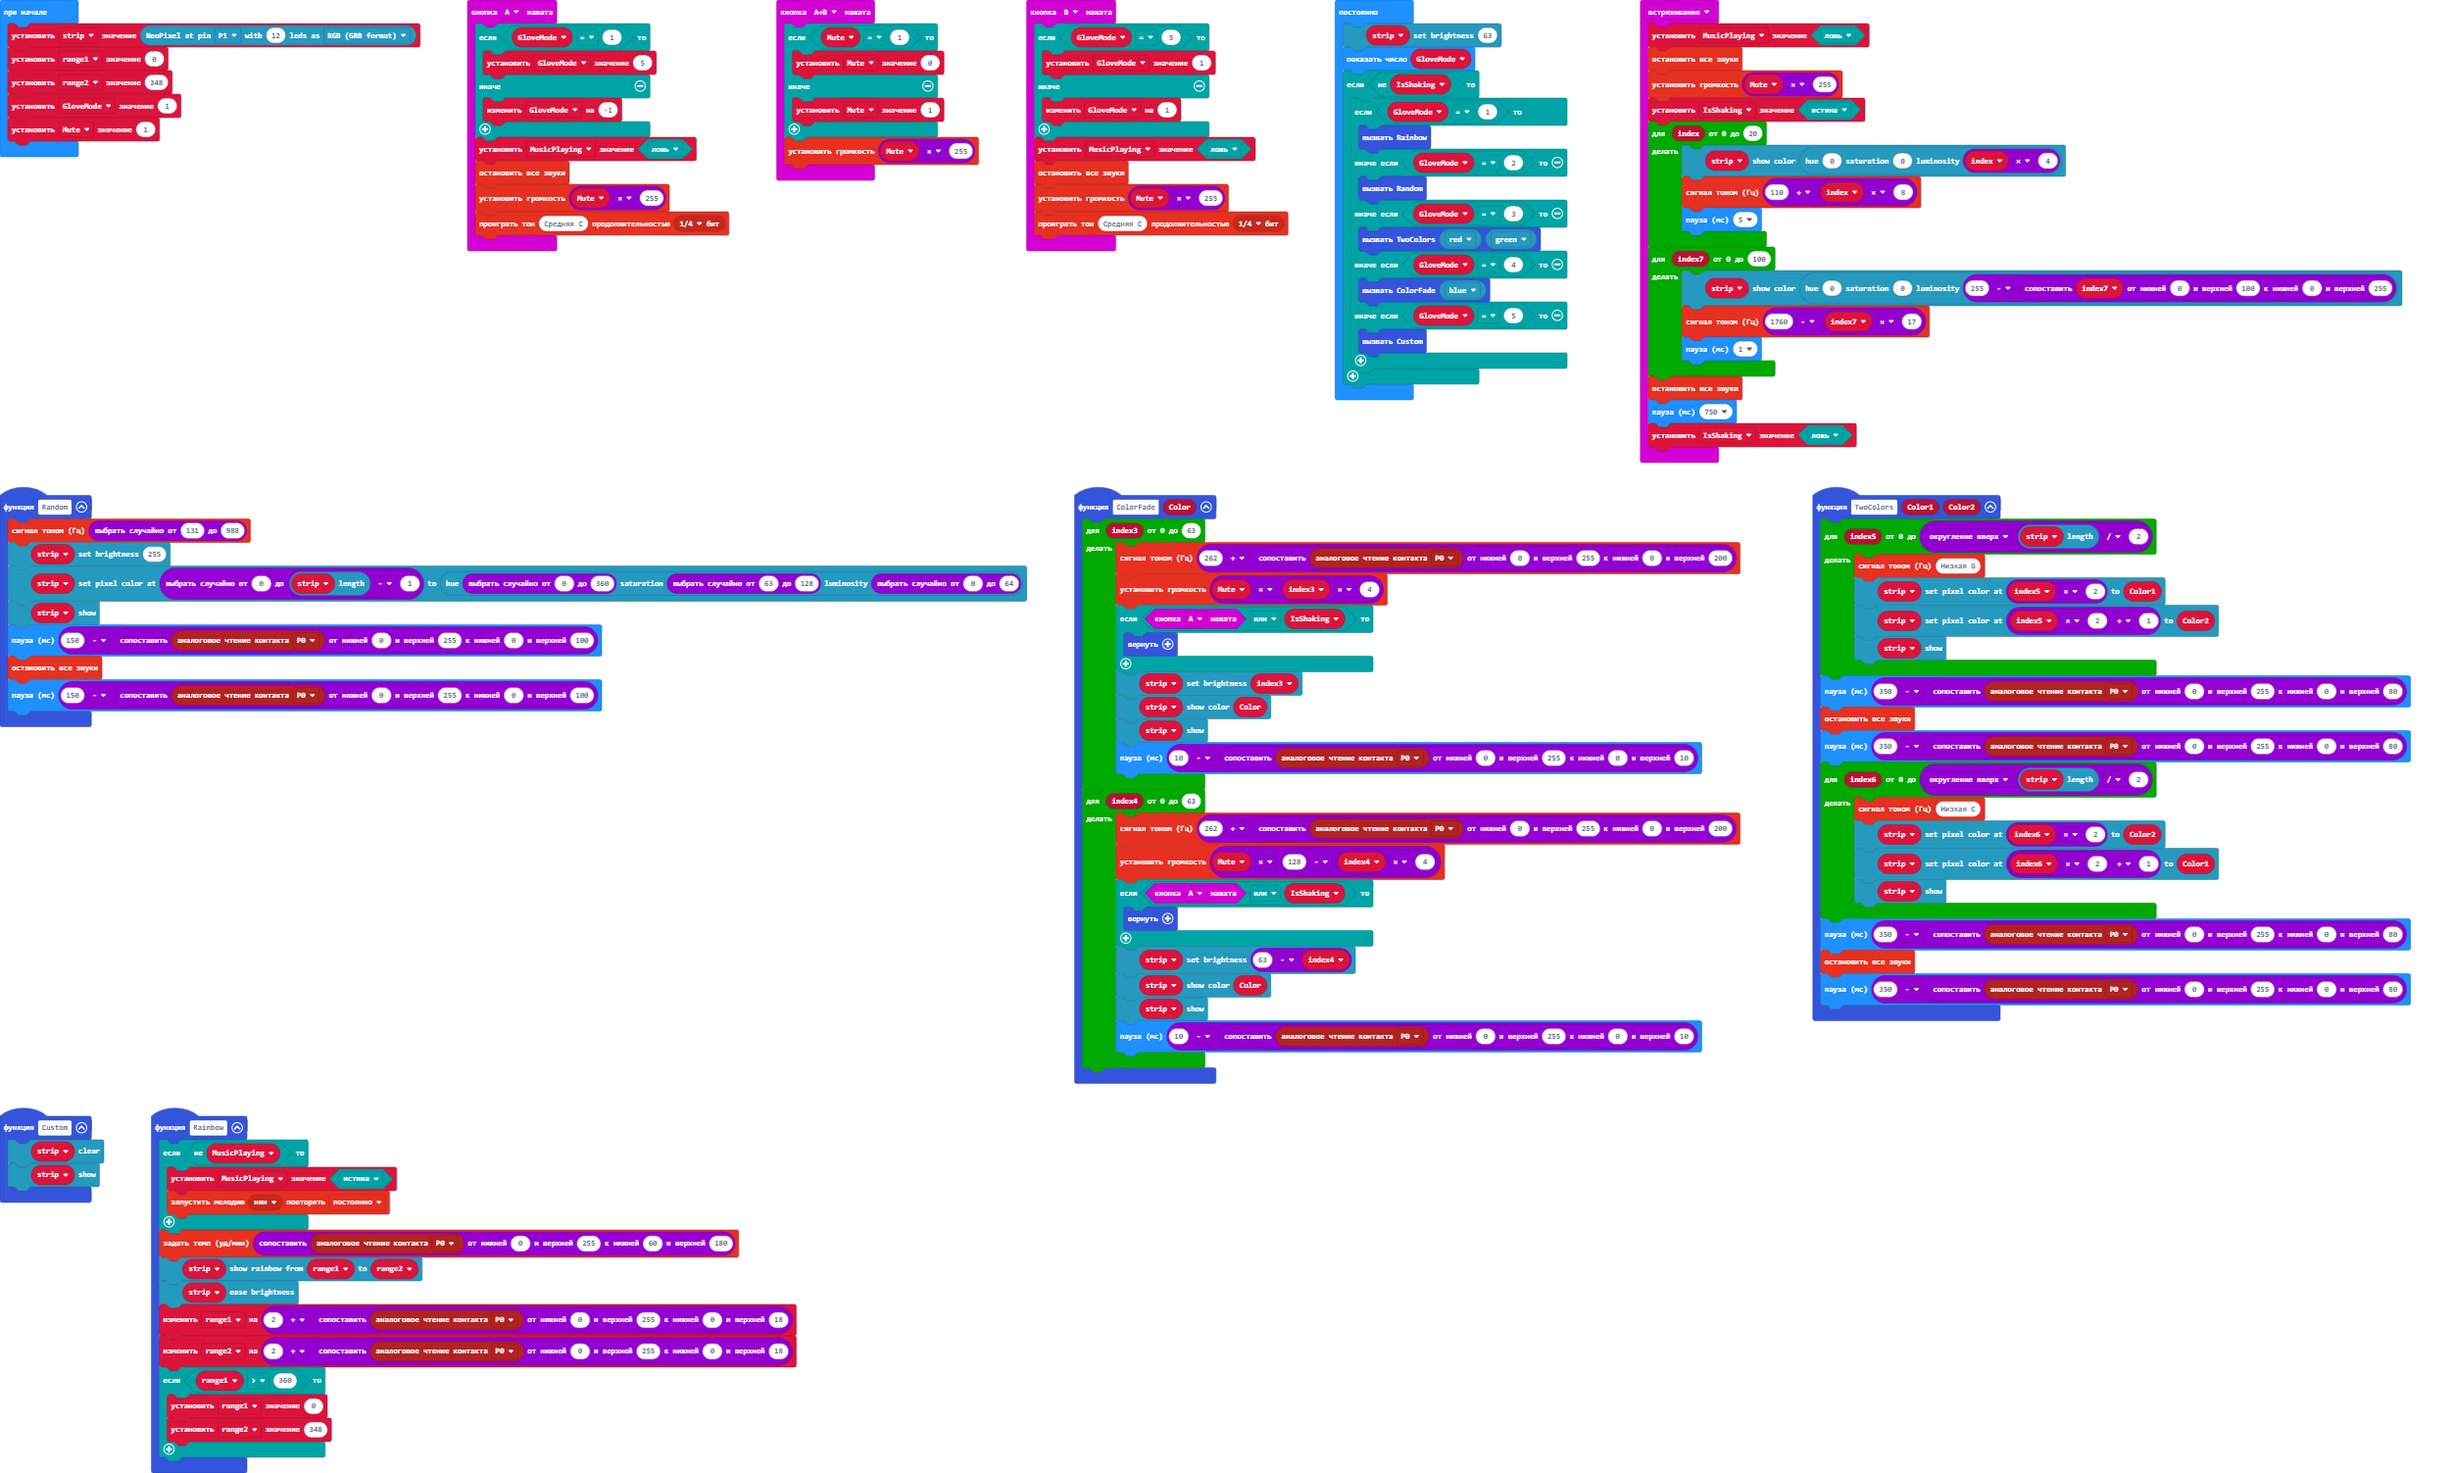
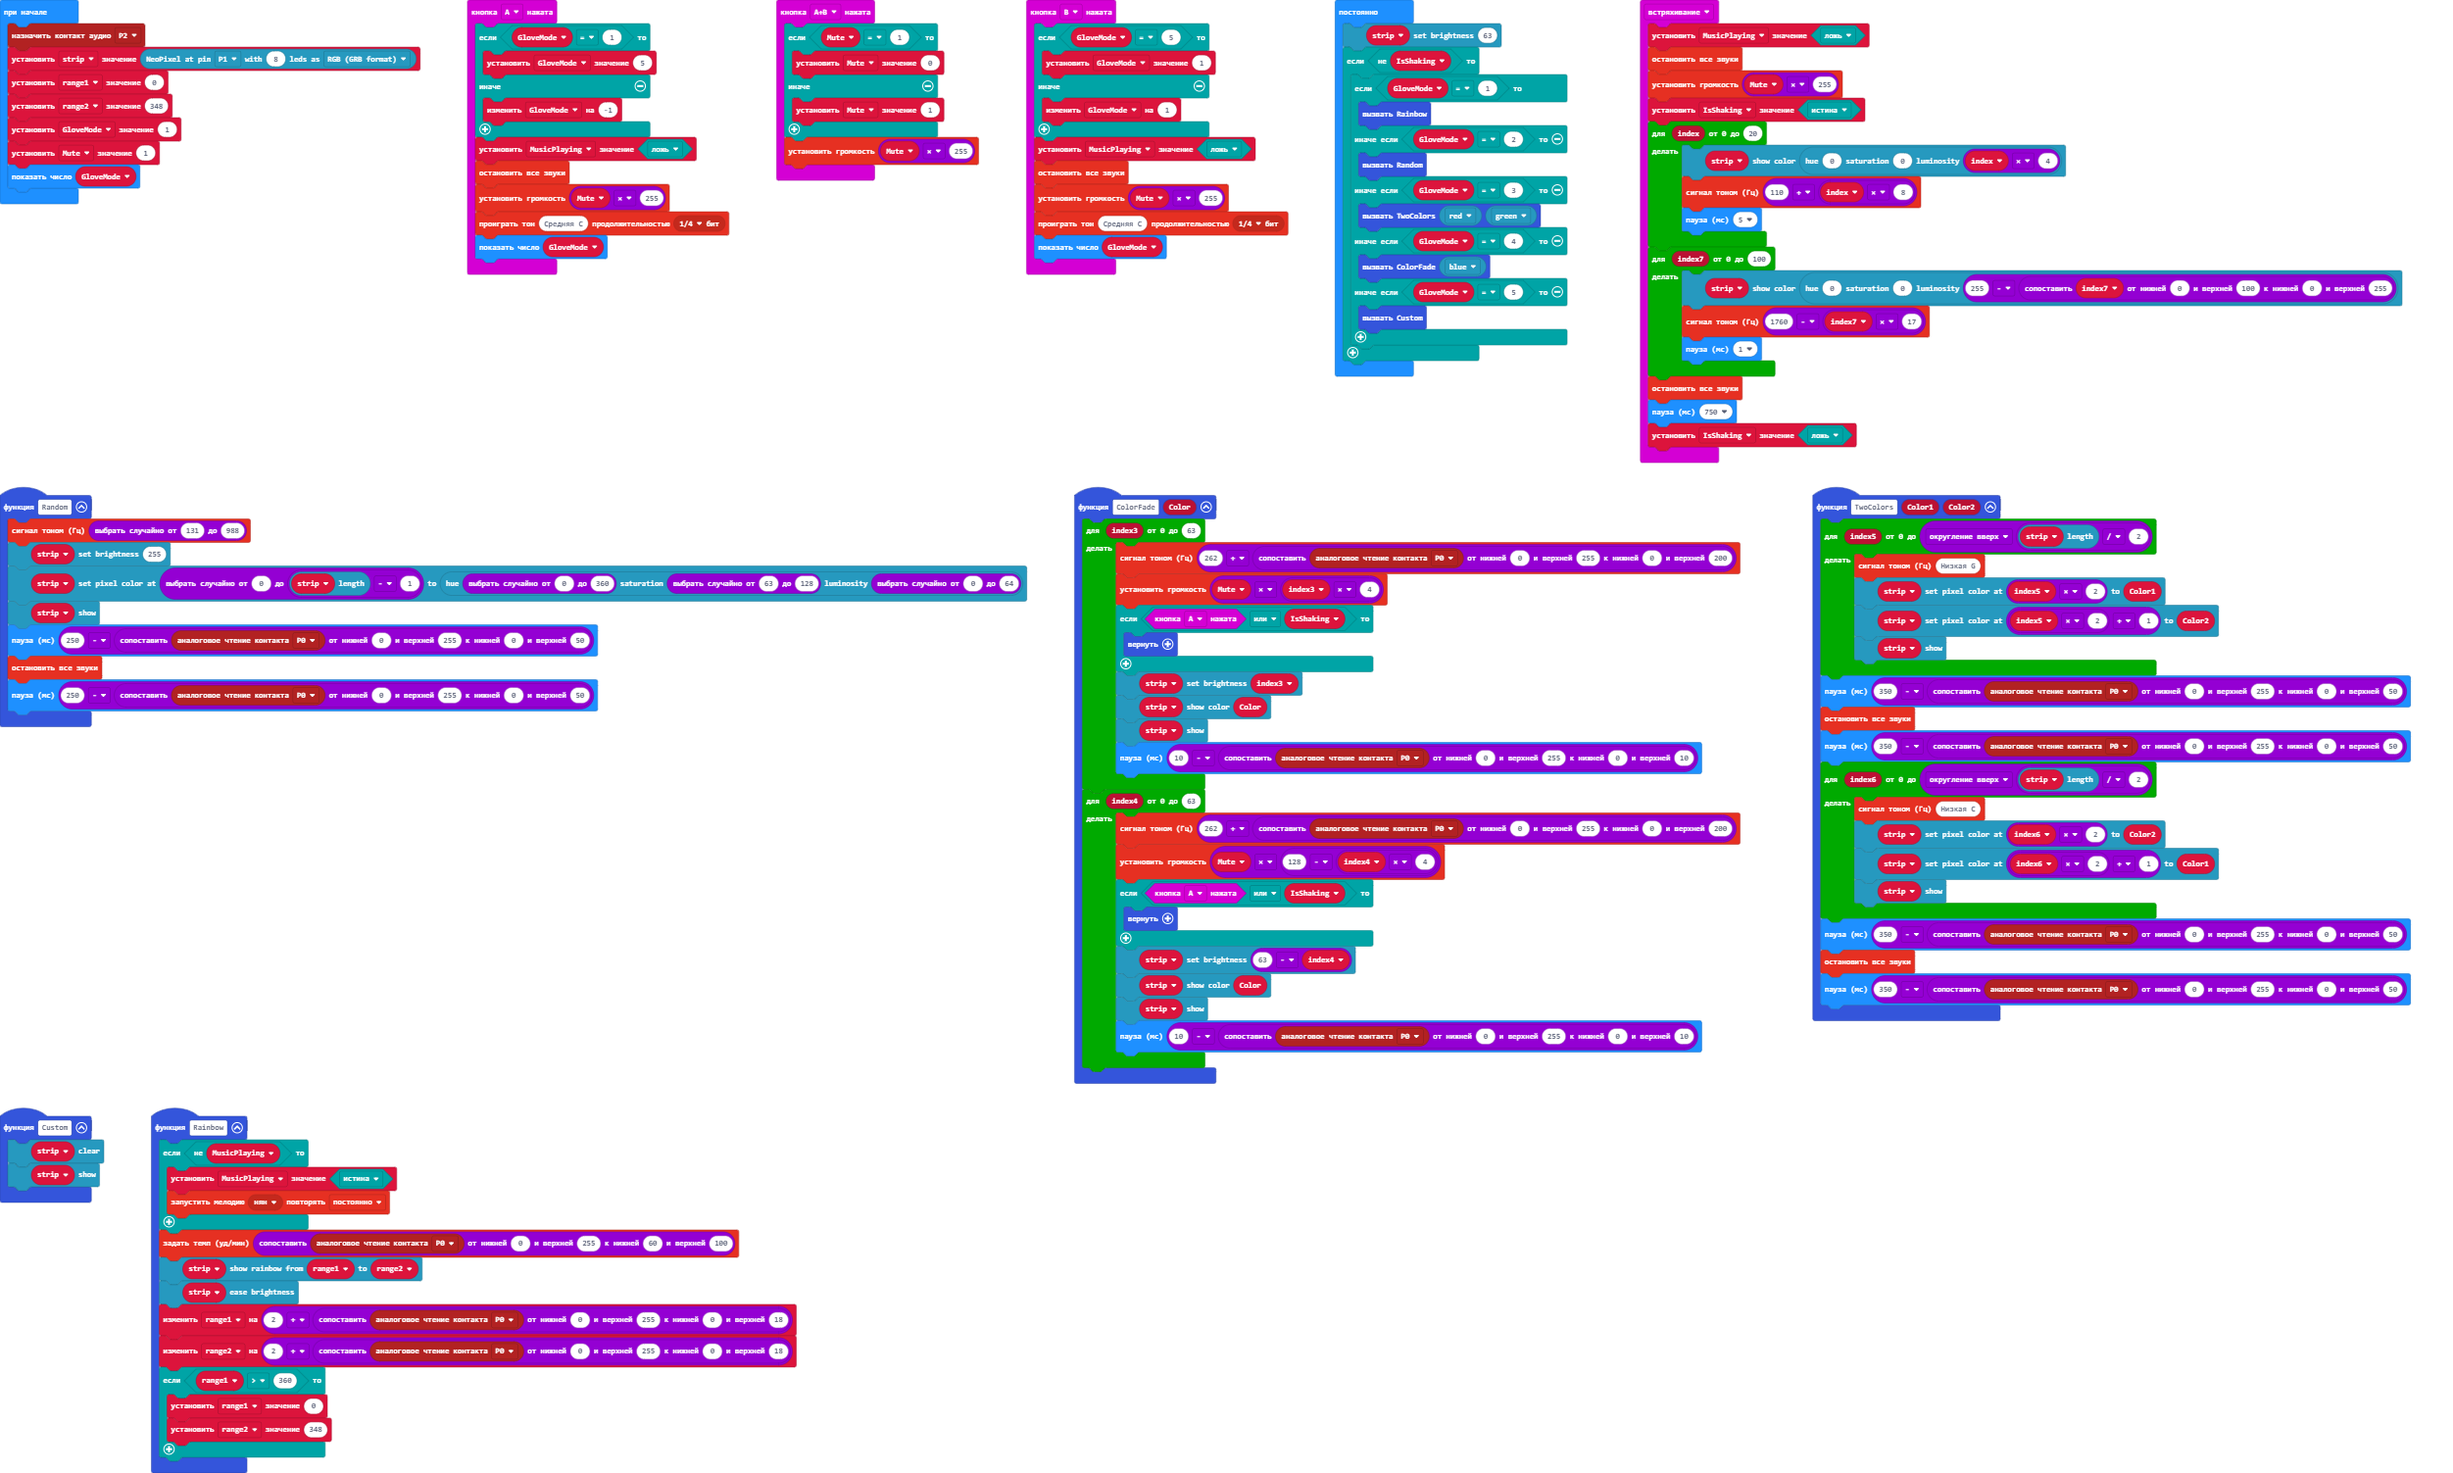
Обновить main.blocks, main.ts

diff --git a/main.ts b/main.ts
@@ -3,9 +3,9 @@ function Random () {
     strip.setBrightness(255)
     strip.setPixelColor(randint(0, strip.length() - 1), neopixel.hsl(randint(0, 360), randint(63, 128), randint(0, 64)))
     strip.show()
-    basic.pause(150 - Math.map(pins.analogReadPin(AnalogPin.P0), 0, 255, 0, 100))
+    basic.pause(250 - Math.map(pins.analogReadPin(AnalogPin.P0), 0, 255, 0, 50))
     music.stopAllSounds()
-    basic.pause(150 - Math.map(pins.analogReadPin(AnalogPin.P0), 0, 255, 0, 100))
+    basic.pause(250 - Math.map(pins.analogReadPin(AnalogPin.P0), 0, 255, 0, 50))
 }
 input.onButtonPressed(Button.A, function () {
     if (GloveMode == 1) {
@@ -17,6 +17,7 @@ input.onButtonPressed(Button.A, function () {
     music.stopAllSounds()
     music.setVolume(Mute * 255)
     music.playTone(262, music.beat(BeatFraction.Quarter))
+    basic.showNumber(GloveMode)
 })
 function ColorFade (Color: number) {
     for (let index3 = 0; index3 <= 63; index3++) {
@@ -49,18 +50,18 @@ function TwoColors (Color1: number, Color2: number) {
         strip.setPixelColor(index5 * 2 + 1, Color2)
         strip.show()
     }
-    basic.pause(350 - Math.map(pins.analogReadPin(AnalogPin.P0), 0, 255, 0, 80))
+    basic.pause(350 - Math.map(pins.analogReadPin(AnalogPin.P0), 0, 255, 0, 50))
     music.stopAllSounds()
-    basic.pause(350 - Math.map(pins.analogReadPin(AnalogPin.P0), 0, 255, 0, 80))
+    basic.pause(350 - Math.map(pins.analogReadPin(AnalogPin.P0), 0, 255, 0, 50))
     for (let index6 = 0; index6 <= Math.ceil(strip.length() / 2); index6++) {
         music.ringTone(131)
         strip.setPixelColor(index6 * 2, Color2)
         strip.setPixelColor(index6 * 2 + 1, Color1)
         strip.show()
     }
-    basic.pause(350 - Math.map(pins.analogReadPin(AnalogPin.P0), 0, 255, 0, 80))
+    basic.pause(350 - Math.map(pins.analogReadPin(AnalogPin.P0), 0, 255, 0, 50))
     music.stopAllSounds()
-    basic.pause(350 - Math.map(pins.analogReadPin(AnalogPin.P0), 0, 255, 0, 80))
+    basic.pause(350 - Math.map(pins.analogReadPin(AnalogPin.P0), 0, 255, 0, 50))
 }
 input.onButtonPressed(Button.AB, function () {
     if (Mute == 1) {
@@ -80,6 +81,7 @@ input.onButtonPressed(Button.B, function () {
     music.stopAllSounds()
     music.setVolume(Mute * 255)
     music.playTone(262, music.beat(BeatFraction.Quarter))
+    basic.showNumber(GloveMode)
 })
 function Custom () {
     strip.clear()
@@ -90,7 +92,7 @@ function Rainbow () {
         MusicPlaying = true
         music.startMelody(music.builtInMelody(Melodies.Nyan), MelodyOptions.Forever)
     }
-    music.setTempo(Math.map(pins.analogReadPin(AnalogPin.P0), 0, 255, 60, 180))
+    music.setTempo(Math.map(pins.analogReadPin(AnalogPin.P0), 0, 255, 60, 100))
     strip.showRainbow(range1, range2)
     strip.easeBrightness()
     range1 += 2 + Math.map(pins.analogReadPin(AnalogPin.P0), 0, 255, 0, 18)
@@ -126,14 +128,15 @@ let GloveMode = 0
 let range2 = 0
 let range1 = 0
 let strip: neopixel.Strip = null
-strip = neopixel.create(DigitalPin.P1, 12, NeoPixelMode.RGB)
+pins.setAudioPin(AnalogPin.P2)
+strip = neopixel.create(DigitalPin.P1, 8, NeoPixelMode.RGB)
 range1 = 0
 range2 = 348
 GloveMode = 1
 Mute = 1
+basic.showNumber(GloveMode)
 basic.forever(function () {
     strip.setBrightness(63)
-    basic.showNumber(GloveMode)
     if (!(IsShaking)) {
         if (GloveMode == 1) {
             Rainbow()
